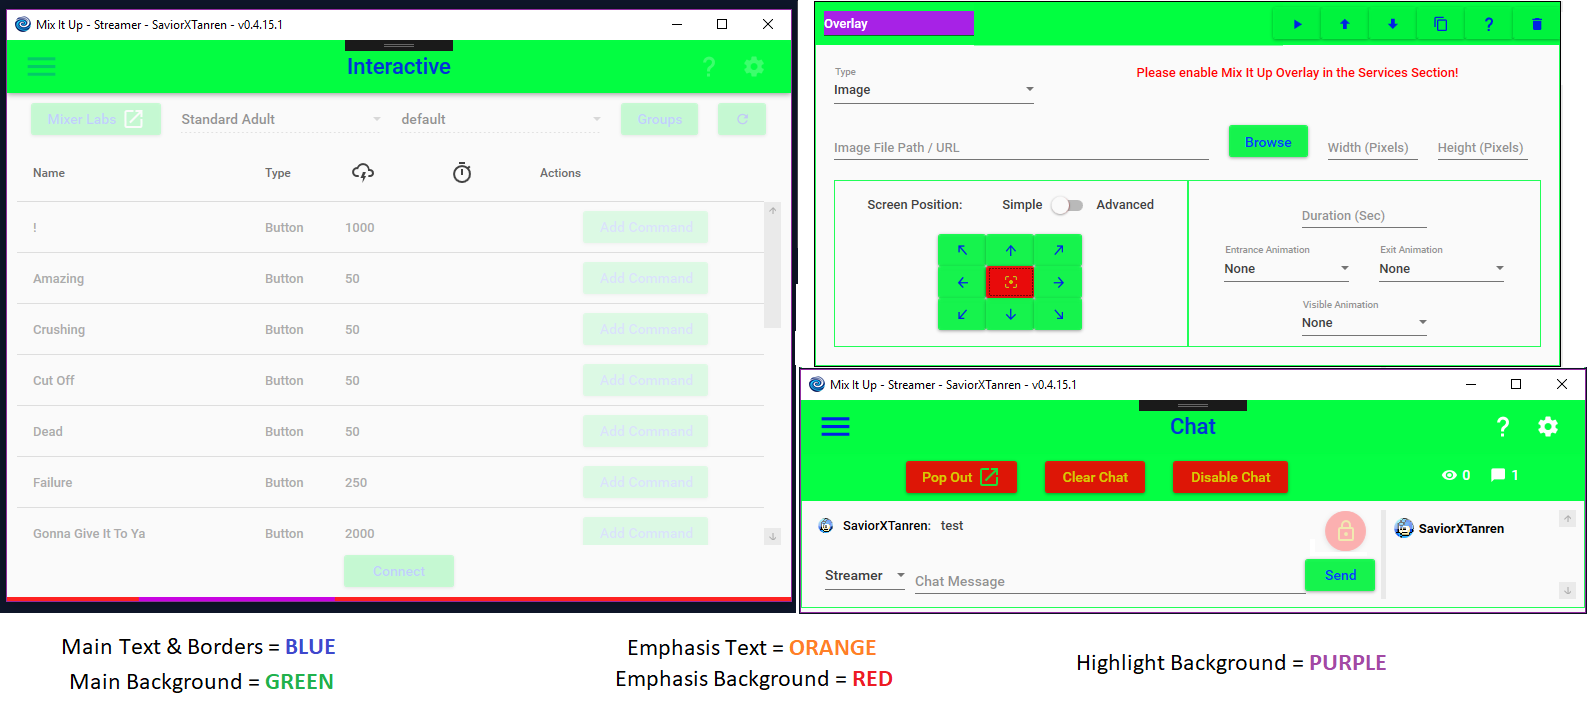
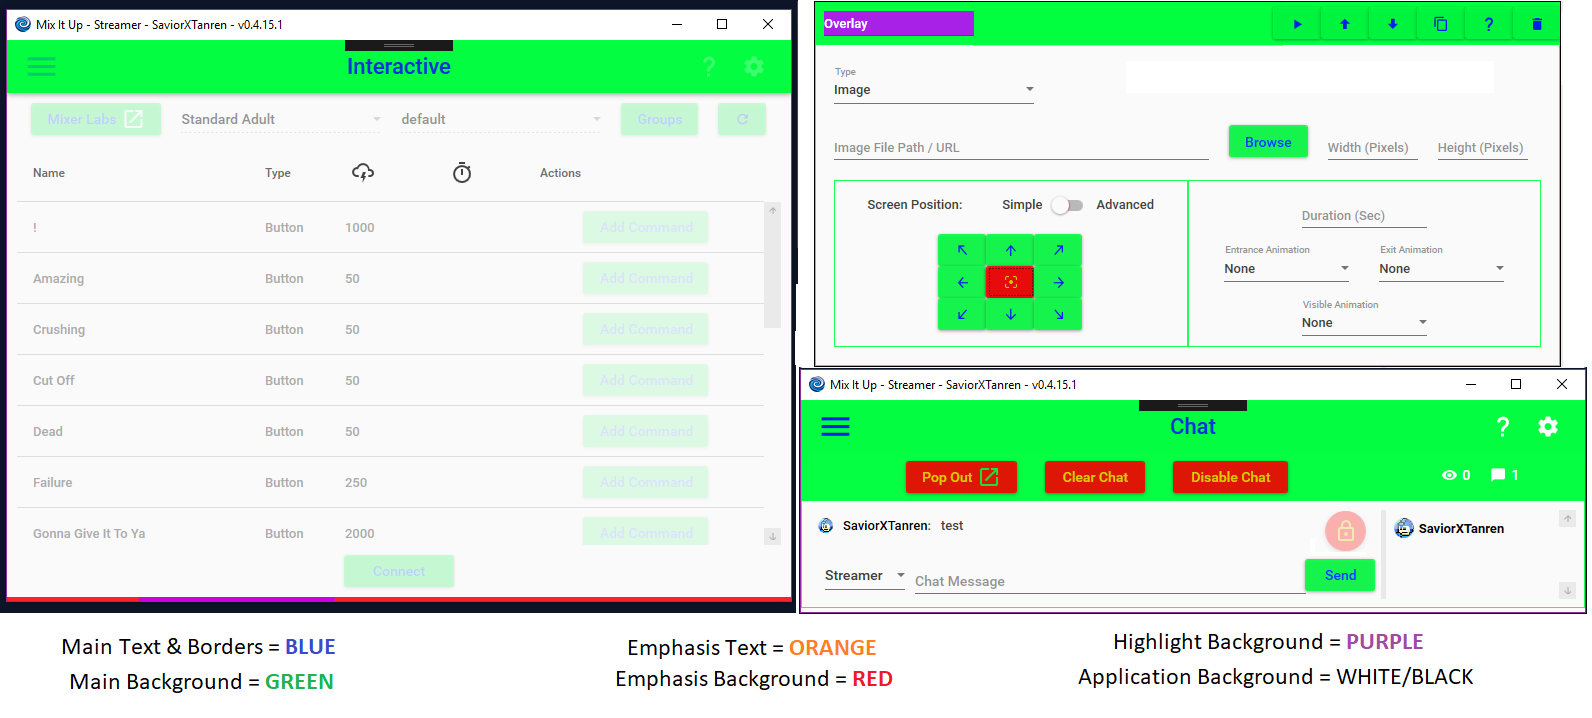
- Adding support for background color in custom themes

Changed region(s): [[0.6771, 0.8579, 0.9234, 0.9499], [0.7079, 0.0919, 0.9234, 0.1226]]

diff --git a/MixItUp.WPF/Themes/MixItUpTheme.Sample.xaml b/MixItUp.WPF/Themes/MixItUpTheme.Sample.xaml
@@ -7,4 +7,6 @@
   <SolidColorBrush x:Key="PrimaryHueMidForegroundBrush" Color="#DD0000FF" po:Freeze="True" />           <!-- Main Foreground -->
   <SolidColorBrush x:Key="PrimaryHueDarkBrush" Color="#DDBF00FF" po:Freeze="True" />                    <!-- Highlight Background -->
   <SolidColorBrush x:Key="PrimaryHueDarkForegroundBrush" Color="#DDFFBF00" po:Freeze="True" />          <!-- Unknown... -->
+
+  <SolidColorBrush x:Key="MainApplicationBackground" Color="White" po:Freeze="True" />                  <!-- Application Background -->
 </ResourceDictionary>

diff --git a/MixItUp.WPF/App.xaml.cs b/MixItUp.WPF/App.xaml.cs
@@ -9,6 +9,7 @@ using System.Linq;
 using System.Text.RegularExpressions;
 using System.Threading.Tasks;
 using System.Windows;
+using System.Windows.Media;
 using System.Windows.Threading;
 
 namespace MixItUp.WPF
@@ -25,6 +26,10 @@ namespace MixItUp.WPF
         public void SwitchTheme(string colorScheme, string backgroundColorName, string fullThemeName)
         {
             colorScheme = colorScheme.Replace(" ", "");
+            if (string.IsNullOrEmpty(fullThemeName) || fullThemeName.Equals("None"))
+            {
+                fullThemeName = null;
+            }
 
             // Change Material Design Color Scheme
             var existingMDCResourceDictionary = Application.Current.Resources.MergedDictionaries.Where(rd => rd.Source != null)
@@ -33,18 +38,19 @@ namespace MixItUp.WPF
             {
                 throw new ApplicationException("Unable to find Color scheme in Application resources.");
             }
+            Application.Current.Resources.MergedDictionaries.Remove(existingMDCResourceDictionary);
 
             var newMDCResourceDictionary = new ResourceDictionary();
-            if (!string.IsNullOrEmpty(fullThemeName) && !fullThemeName.Equals("None"))
+            if (!string.IsNullOrEmpty(fullThemeName))
             {
                 newMDCResourceDictionary.Source = new Uri($"Themes/MixItUpTheme.{fullThemeName}.xaml", UriKind.Relative);
+                SolidColorBrush mainApplicationBackground = (SolidColorBrush)newMDCResourceDictionary["MainApplicationBackground"];
+                backgroundColorName = (mainApplicationBackground.ToString().Equals("#FFFFFFFF")) ? "Light" : "Dark";
             }
             else
             {
                 newMDCResourceDictionary.Source = new Uri($"pack://application:,,,/MaterialDesignColors;component/Themes/Recommended/Primary/MaterialDesignColor.{colorScheme}.xaml");
             }
-
-            Application.Current.Resources.MergedDictionaries.Remove(existingMDCResourceDictionary);
             Application.Current.Resources.MergedDictionaries.Add(newMDCResourceDictionary);
 
             // Change Material Design Light/Dark Theme
@@ -54,11 +60,11 @@ namespace MixItUp.WPF
             {
                 throw new ApplicationException("Unable to find Light/Dark base theme in Application resources.");
             }
+            Application.Current.Resources.MergedDictionaries.Remove(existingMDTResourceDictionary);
 
             var themeSource = $"pack://application:,,,/MaterialDesignThemes.Wpf;component/Themes/MaterialDesignTheme.{backgroundColorName}.xaml";
             var newMDTResourceDictionary = new ResourceDictionary() { Source = new Uri(themeSource) };
 
-            Application.Current.Resources.MergedDictionaries.Remove(existingMDTResourceDictionary);
             Application.Current.Resources.MergedDictionaries.Add(newMDTResourceDictionary);
 
             // Change Mix It Up Light/Dark Theme
